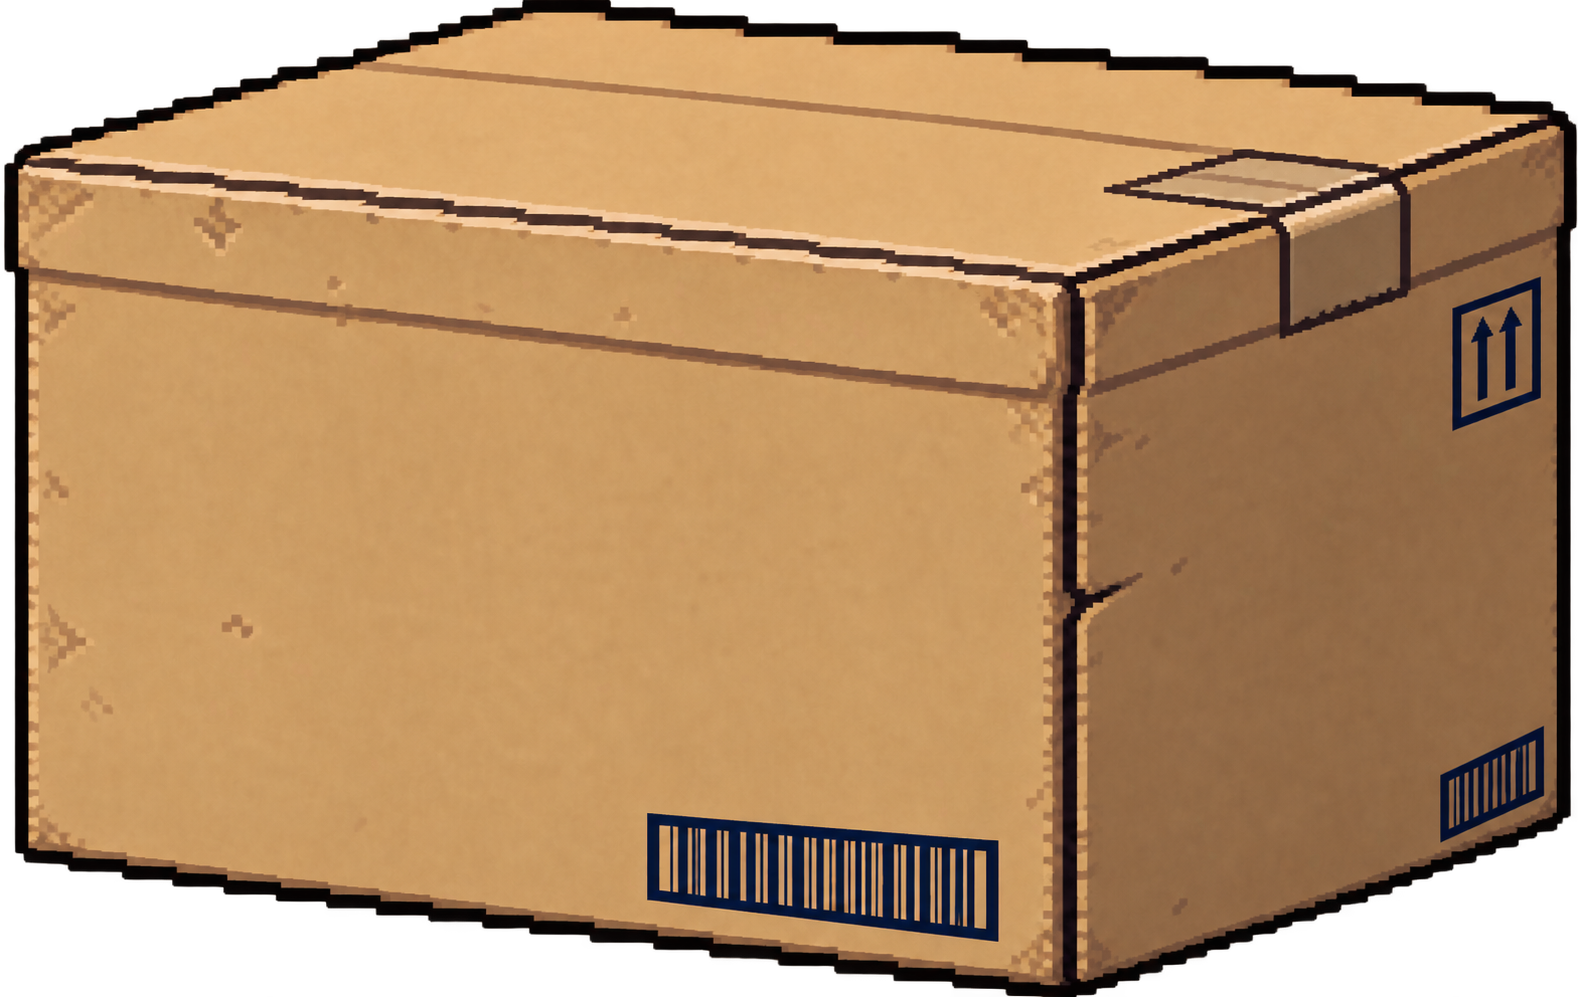
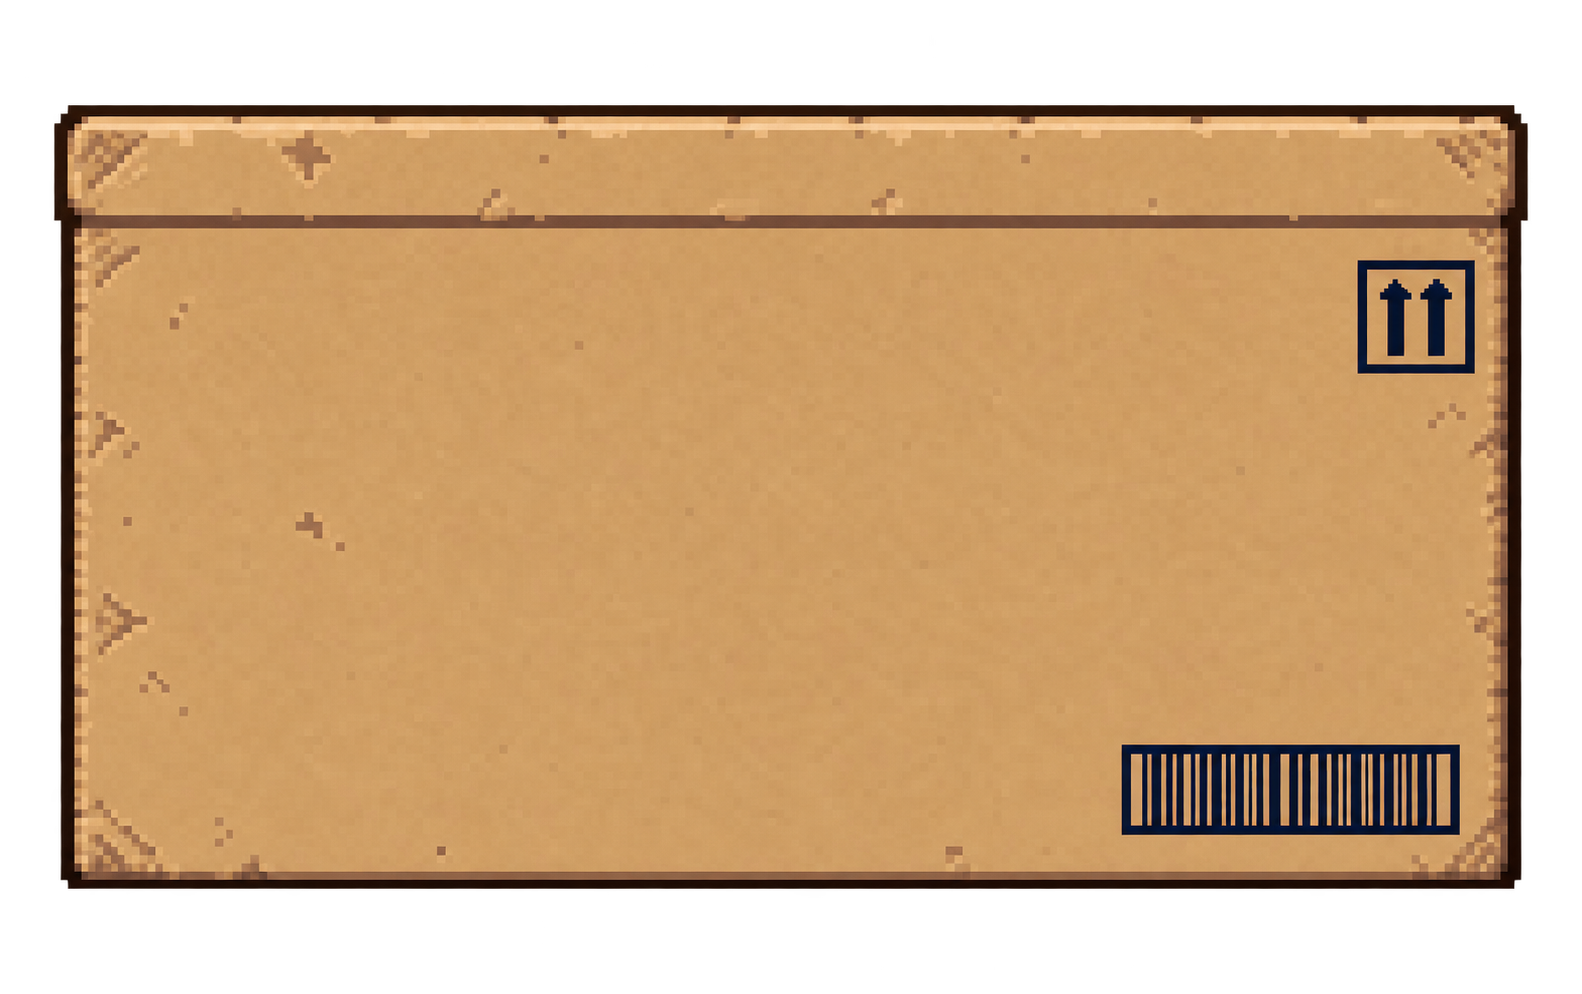
Redraw ramen carton in orthographic side view

diff --git a/css/game.css b/css/game.css
@@ -554,9 +554,7 @@ body { margin: 0; overflow: hidden; background: #27292b; color: #eee; font: 14px
 #dynamic-scene .carton-art { position: absolute; inset: 0; width: 100%; height: 100%; pointer-events: none; }
 .carton-label { position: absolute; z-index: 1; display: flex; flex-direction: column; align-items: center; justify-content: center; color: #930f29; font-family: 'Malgun Gothic', sans-serif; font-weight: 900; line-height: 1.1; white-space: nowrap; pointer-events: none; }
 .carton-label small { font: bold 7px Arial, sans-serif; letter-spacing: .5px; margin-top: 5px; }
-.carton-label-front { left: 5%; top: 37%; width: 61%; height: 36%; transform: skewY(5deg); }
-.carton-label-side { left: 73%; top: 49%; width: 24%; height: 28%; transform: skewY(-20deg); }
-.carton-label-side small { font-size: 5px; }
+.carton-label-front { left: 10%; top: 30%; width: 76%; height: 40%; }
 .brand-sign { position: absolute; z-index: 2; display: flex; align-items: center; justify-content: center; gap: 8px; color: #d3d2c3; font: 900 28px Arial, 'Malgun Gothic', sans-serif; white-space: nowrap; pointer-events: none; }
 .brand-sign img { height: 75%; width: auto; image-rendering: pixelated; }
 #world[data-background-lights="off"] .brand-sign { filter: brightness(.42); }

diff --git a/js/core/brands.js b/js/core/brands.js
@@ -53,14 +53,12 @@ function addCartonBrand(parent) {
   image.src = BRAND_ART.ramenBox;
   image.alt = '';
   parent.append(image);
-  for (const side of ['front', 'side']) {
-    const label = document.createElement('span');
-    label.className = `carton-label carton-label-${side}`;
-    label.style.fontSize = `${Math.min(side === 'front' ? 24 : 15, (side === 'front' ? 110 : 43) / Math.max(3, [...BRAND_NAMES.ramen].length))}px`;
-    label.textContent = BRAND_NAMES.ramen;
-    const english = document.createElement('small');
-    english.textContent = BRAND_NAMES.ramenEnglish;
-    label.append(english);
-    parent.append(label);
-  }
+  const label = document.createElement('span');
+  label.className = 'carton-label carton-label-front';
+  label.style.fontSize = `${Math.min(28, 140 / Math.max(3, [...BRAND_NAMES.ramen].length))}px`;
+  label.textContent = BRAND_NAMES.ramen;
+  const english = document.createElement('small');
+  english.textContent = BRAND_NAMES.ramenEnglish;
+  label.append(english);
+  parent.append(label);
 }

diff --git a/assets/objects/floor16/source/README.md b/assets/objects/floor16/source/README.md
@@ -1,5 +1,5 @@
 # 밀기 상자 원본
 
-`ramen-box.png`는 image_gen으로 새로 그린 골판지 상자입니다. 앞면과 옆면의 기존 실물 라면 상표·제조사 로고를 모두 지우고 글자 없는 원본으로 보관합니다. 투명도를 정리하고 568×357로 내보낸 파일이 상위 폴더의 런타임 이미지입니다.
+`ramen-box.png`는 image_gen으로 새로 그린 골판지 상자입니다. 횡스크롤 게임에 맞춰 윗면·옆면이 보이지 않는 평면 측면도로 그렸습니다. 상단과 바닥이 수평이고 양쪽 모서리가 수직인 글자 없는 상자입니다. 투명도를 정리하고 568×357로 내보낸 파일이 상위 폴더의 런타임 이미지입니다.
 
-게임에서는 `js/core/brands.js`의 `BRAND_NAMES.ramen`과 `ramenEnglish`를 앞면·옆면에 따로 표시합니다. 기본 표기는 **인라면 / IN RAMEN**입니다. 상자 자체를 다른 그림으로 바꾸려면 같은 파일의 `BRAND_ART.ramenBox`를 수정합니다. 기존 186×117 충돌체와 밀기 범위는 유지합니다.
+게임에서는 `js/core/brands.js`의 `BRAND_NAMES.ramen`과 `ramenEnglish`를 평평한 면 중앙에 수평으로 표시합니다. 기본 표기는 **인라면 / IN RAMEN**입니다. 상자 자체를 다른 그림으로 바꾸려면 같은 파일의 `BRAND_ART.ramenBox`를 수정합니다. 기존 186×117 충돌체와 밀기 범위는 유지합니다.

diff --git a/docs/BRANDS.md b/docs/BRANDS.md
@@ -8,7 +8,7 @@
 | `databaseCompany` | ARCHI Data | 회사명·층별 안내 |
 | `databaseProduct` | ARCHI DB | DB 제품명 |
 | `store` | VU | 편의점 간판·영수증·설명 |
-| `ramen` | 인라면 | 밀기 상자 앞·옆면·아이템 설명 |
+| `ramen` | 인라면 | 밀기 상자 측면·아이템 설명 |
 | `ramenEnglish` | IN RAMEN | 상자의 영문 표기 |
 
 예: `store: '우리상점'`, `ramen: '별라면'`으로 바꿀 수 있습니다. 간판과 상자의 글자는 그림과 분리되어 있어 다시 그릴 필요가 없습니다. 작은 간판에서 읽기 쉽도록 짧은 이름을 권장합니다.
